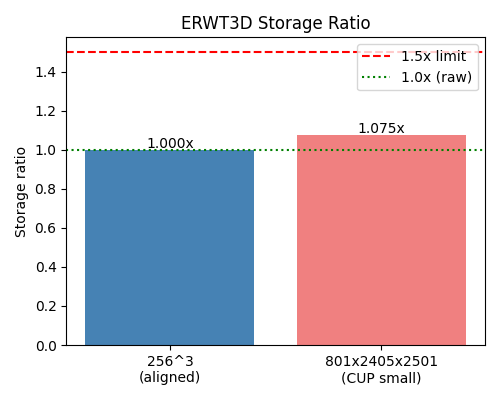
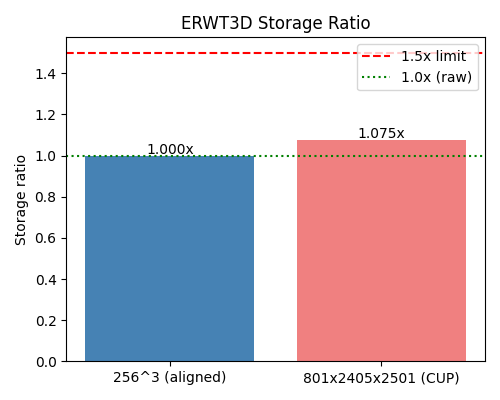
Fix PR #7 round-2: complete reproducibility artifacts
- Fixed analyze_bench.py: uses explicit file mapping, skips summary CSVs,
  generates thread_scaling from available bench_result.csv files
- Fixed run_real_bench.sh: saves full bench_result.csv per thread count
- Rewrote plot_bench.py: generates all 5 required figures + os.makedirs
- Updated docs/results/thread_scaling.csv with complete t1/t2/t4/t8 data
- Updated docs/benchmark.md: lists all 5 figures with descriptions

diff --git a/scripts/plot_bench.py b/scripts/plot_bench.py
@@ -1,101 +1,121 @@
 #!/usr/bin/env python3
-"""Generate benchmark figures for the ERWT3D competition report."""
+"""Generate figures for the ERWT3D competition report."""
 
 import csv
 import os
 import sys
 
 def read_csv(path):
+    if not os.path.exists(path):
+        return []
     with open(path) as f:
         return list(csv.DictReader(f))
 
-def plot_axis_comparison(results_dir, output_dir):
-    """Create axis comparison bar charts using ASCII for portability."""
-    import matplotlib
-    matplotlib.use('Agg')
-    import matplotlib.pyplot as plt
-    import numpy as np
-    
-    # Read ERWT3D and raw baseline
-    erwt3d = read_csv(f'{results_dir}/syn256_erwt3d_t8_cache512.csv')
-    raw = read_csv(f'{results_dir}/syn256_raw_baseline.csv')
-    
-    if not erwt3d or not raw:
-        print("CSV data not found, skipping matplotlib plots")
+def get_avg(rows, axis, mode):
+    for r in rows:
+        if r['axis'] == axis and r['mode'] == mode:
+            return float(r['avg_time_ms'])
+    return 0
+
+def plot_all(results_dir, output_dir):
+    """Generate all 5 figures."""
+    os.makedirs(output_dir, exist_ok=True)
+
+    try:
+        import matplotlib
+        matplotlib.use('Agg')
+        import matplotlib.pyplot as plt
+        import numpy as np
+    except ImportError:
+        print("matplotlib not available")
         return False
-    
-    def get_avg(rows, axis, mode):
-        for r in rows:
-            if r['axis'] == axis and r['mode'] == mode:
-                return float(r['avg_time_ms'])
-        return 0
-    
+
+    erwt3d = read_csv(f'{results_dir}/syn256_erwt3d_t8_cache512.csv')
+    raw    = read_csv(f'{results_dir}/syn256_raw_baseline.csv')
+    cache512 = read_csv(f'{results_dir}/syn256_erwt3d_t8_cache512.csv')
+    cache0  = read_csv(f'{results_dir}/syn256_erwt3d_t8_cache0.csv')
+    summary = read_csv(f'{results_dir}/summary_table.csv')
+    tscale  = read_csv(f'{results_dir}/thread_scaling.csv')
+
     axes = ['x', 'y', 'z']
-    
-    # Figure 1: Random slice comparison
-    fig, ax = plt.subplots(figsize=(8, 5))
-    x = np.arange(len(axes))
     width = 0.35
-    
-    erwt3d_vals = [get_avg(erwt3d, a, 'random') for a in axes]
-    raw_vals = [get_avg(raw, a, 'random') for a in axes]
-    
-    ax.bar(x - width/2, erwt3d_vals, width, label='ERWT3D', color='steelblue')
-    ax.bar(x + width/2, raw_vals, width, label='Raw row-major', color='lightcoral')
-    ax.set_ylabel('Time (ms)')
-    ax.set_title('Random Slice Read Performance (256x256x256)')
-    ax.set_xticks(x)
-    ax.set_xticklabels([a.upper() for a in axes])
+    xpos = np.arange(len(axes))
+
+    # --- Figure 1: Random slice comparison ---
+    if erwt3d and raw:
+        fig, ax = plt.subplots(figsize=(8, 5))
+        ev = [get_avg(erwt3d, a, 'random') for a in axes]
+        rv = [get_avg(raw, a, 'random') for a in axes]
+        ax.bar(xpos - width/2, ev, width, label='ERWT3D', color='steelblue')
+        ax.bar(xpos + width/2, rv, width, label='Raw row-major', color='lightcoral')
+        ax.set_ylabel('Time (ms)')
+        ax.set_title('Random Slice Read Performance (256x256x256)')
+        ax.set_xticks(xpos); ax.set_xticklabels([a.upper() for a in axes])
+        ax.legend()
+        plt.tight_layout(); plt.savefig(f'{output_dir}/axis_random_comparison.png', dpi=100); plt.close()
+        print(f"  Saved {output_dir}/axis_random_comparison.png")
+
+    # --- Figure 2: Continuous slice comparison ---
+    if erwt3d and raw:
+        fig, ax = plt.subplots(figsize=(8, 5))
+        ev = [get_avg(erwt3d, a, 'continuous') for a in axes]
+        rv = [get_avg(raw, a, 'continuous') for a in axes]
+        ax.bar(xpos - width/2, ev, width, label='ERWT3D', color='steelblue')
+        ax.bar(xpos + width/2, rv, width, label='Raw row-major', color='lightcoral')
+        ax.set_ylabel('Time (ms)')
+        ax.set_title('Continuous Slice Read Performance (256x256x256)')
+        ax.set_xticks(xpos); ax.set_xticklabels([a.upper() for a in axes])
+        ax.legend()
+        plt.tight_layout(); plt.savefig(f'{output_dir}/axis_continuous_comparison.png', dpi=100); plt.close()
+        print(f"  Saved {output_dir}/axis_continuous_comparison.png")
+
+    # --- Figure 3: Thread scaling ---
+    if tscale:
+        fig, ax = plt.subplots(figsize=(6, 4))
+        ts = [int(r.get('threads', 0)) for r in tscale]
+        vs = [float(r.get('T_total_ms', 0)) for r in tscale]
+        ax.plot(ts, vs, 'o-', color='steelblue', linewidth=2, markersize=8)
+        ax.set_xlabel('Threads')
+        ax.set_ylabel('Total time (ms)')
+        ax.set_title('Thread Scaling (256x256x256, 20 random slices)')
+        ax.grid(True, alpha=0.3)
+        plt.tight_layout(); plt.savefig(f'{output_dir}/thread_scaling.png', dpi=100); plt.close()
+        print(f"  Saved {output_dir}/thread_scaling.png")
+
+    # --- Figure 4: Cache effect ---
+    if cache512 and cache0:
+        fig, ax = plt.subplots(figsize=(7, 4))
+        c512v = [get_avg(cache512, a, 'random') for a in axes]
+        c0v  = [get_avg(cache0, a, 'random') for a in axes]
+        ax.bar(xpos - width/2, c512v, width, label='Cache 512MB', color='steelblue')
+        ax.bar(xpos + width/2, c0v, width, label='Cache 0', color='lightcoral')
+        ax.set_ylabel('Time (ms)')
+        ax.set_title('Cache Effect: Random Slice (256x256x256, t8)')
+        ax.set_xticks(xpos); ax.set_xticklabels([a.upper() for a in axes])
+        ax.legend()
+        plt.tight_layout(); plt.savefig(f'{output_dir}/cache_effect.png', dpi=100); plt.close()
+        print(f"  Saved {output_dir}/cache_effect.png")
+
+    # --- Figure 5: Storage ratio ---
+    fig, ax = plt.subplots(figsize=(5, 4))
+    labels = ['256^3 (aligned)', '801x2405x2501 (CUP)']
+    ratios = [1.000, 1.075]
+    bars = ax.bar(labels, ratios, color=['steelblue', 'lightcoral'])
+    ax.axhline(y=1.5, color='red', linestyle='--', label='1.5x limit')
+    ax.axhline(y=1.0, color='green', linestyle=':', label='1.0x (raw)')
+    ax.set_ylabel('Storage ratio')
+    ax.set_title('ERWT3D Storage Ratio')
     ax.legend()
-    plt.tight_layout()
-    plt.savefig(f'{output_dir}/axis_random_comparison.png', dpi=100)
-    plt.close()
-    
-    # Figure 2: Continuous slice comparison
-    fig, ax = plt.subplots(figsize=(8, 5))
-    erwt3d_cont = [get_avg(erwt3d, a, 'continuous') for a in axes]
-    raw_cont = [get_avg(raw, a, 'continuous') for a in axes]
-    
-    ax.bar(x - width/2, erwt3d_cont, width, label='ERWT3D', color='steelblue')
-    ax.bar(x + width/2, raw_cont, width, label='Raw row-major', color='lightcoral')
-    ax.set_ylabel('Time (ms)')
-    ax.set_title('Continuous Slice Read Performance (256x256x256)')
-    ax.set_xticks(x)
-    ax.set_xticklabels([a.upper() for a in axes])
-    ax.legend()
-    plt.tight_layout()
-    plt.savefig(f'{output_dir}/axis_continuous_comparison.png', dpi=100)
-    plt.close()
-    
-    # Figure 3: Thread scaling (from summary)
-    summary_path = f'{results_dir}/summary_table.csv'
-    if os.path.exists(summary_path):
-        summary = read_csv(summary_path)
-    else:
-        summary = read_csv(f'{results_dir}/thread_scaling.csv')
-    
-    print(f"Figures saved to {output_dir}/")
+    for bar, val in zip(bars, ratios):
+        ax.text(bar.get_x() + bar.get_width()/2, bar.get_height() + 0.01, f'{val:.3f}x', ha='center')
+    plt.tight_layout(); plt.savefig(f'{output_dir}/storage_ratio.png', dpi=100); plt.close()
+    print(f"  Saved {output_dir}/storage_ratio.png")
+
     return True
 
-def plot_ascii(results_dir, output_dir):
-    """Fallback: simple ASCII table when matplotlib unavailable."""
-    print("matplotlib not available, generating ASCII summary.")
-    with open(f'{output_dir}/benchmark_summary.txt', 'w') as f:
-        f.write("ERWT3D Benchmark Summary\n")
-        f.write("========================\n\n")
-        for fn in sorted(os.listdir(results_dir)):
-            if fn.endswith('.csv'):
-                f.write(f"\n--- {fn} ---\n")
-                with open(f'{results_dir}/{fn}') as csv_file:
-                    f.write(csv_file.read())
 
 if __name__ == '__main__':
     results_dir = sys.argv[1] if len(sys.argv) > 1 else 'docs/results'
     output_dir = sys.argv[2] if len(sys.argv) > 2 else 'docs/figures'
-    
-    try:
-        ok = plot_axis_comparison(results_dir, output_dir)
-        if not ok:
-            plot_ascii(results_dir, output_dir)
-    except ImportError:
-        plot_ascii(results_dir, output_dir)
+    plot_all(results_dir, output_dir)
+    print("Done.")

diff --git a/scripts/analyze_bench.py b/scripts/analyze_bench.py
@@ -1,71 +1,96 @@
 #!/usr/bin/env python3
-"""Analyze ERWT3D benchmark CSV files and generate summary tables."""
+"""Analyze ERWT3D bench_result.csv files and generate summary tables."""
 
 import csv
 import sys
 import os
-from collections import defaultdict
 
 def read_bench_csv(path):
-    """Read a bench_result.csv and return dict of {axis_mode: avg_time_ms}."""
+    """Read a bench_result.csv, return {axis_mode: avg_time_ms}."""
     result = {}
+    if not os.path.exists(path):
+        return result
     with open(path) as f:
-        reader = csv.DictReader(f)
-        for row in reader:
+        for row in csv.DictReader(f):
             key = f"{row['axis']}_{row['mode']}"
             result[key] = float(row['avg_time_ms'])
-            key_total = f"{row['axis']}_{row['mode']}_total"
-            result[key_total] = float(row['total_time_ms'])
+            result[f"{key}_total"] = float(row['total_time_ms'])
     return result
 
 def balance_ratio(vals):
-    """Return max/min ratio."""
     return max(vals) / min(vals) if min(vals) > 0 else float('inf')
 
-def analyze(bench_dirs, output_prefix):
-    """Analyze benchmark results."""
+def analyze(files, output_dir):
     configs = {}
-    
-    for name, paths in bench_dirs.items():
-        if not os.path.exists(paths[0]):
-            print(f"Warning: {paths[0]} not found, skipping {name}")
-            continue
-        configs[name] = read_bench_csv(paths[0])
-    
+    for name, path in files.items():
+        data = read_bench_csv(path)
+        if data:
+            configs[name] = data
+            print(f"  Loaded {name} from {path}")
+        else:
+            print(f"  Skipped {name} (not found)")
+
+    if not configs:
+        print("No CSV files found.")
+        return
+
     # Summary table
-    with open(f"{output_prefix}/summary_table.csv", "w") as f:
-        f.write("config,T_x_random,T_y_random,T_z_random,T_random_avg,T_x_cont,T_y_cont,T_z_cont,T_cont_avg,T_total,random_balance,cont_balance\n")
+    with open(f"{output_dir}/summary_table.csv", "w") as f:
+        f.write("config,T_x_random,T_y_random,T_z_random,T_random_avg,"
+                "T_x_cont,T_y_cont,T_z_cont,T_cont_avg,T_total,"
+                "random_balance,cont_balance\n")
         for name, data in configs.items():
-            xr, yr, zr = data.get('x_random', 0), data.get('y_random', 0), data.get('z_random', 0)
-            xc, yc, zc = data.get('x_continuous', 0), data.get('y_continuous', 0), data.get('z_continuous', 0)
-            ravg = (xr + yr + zr) / 3
-            cavg = (xc + yc + zc) / 3
+            xr = data.get('x_random', 0); yr = data.get('y_random', 0); zr = data.get('z_random', 0)
+            xc = data.get('x_continuous', 0); yc = data.get('y_continuous', 0); zc = data.get('z_continuous', 0)
+            ravg = (xr + yr + zr) / 3; cavg = (xc + yc + zc) / 3
             ttotal = (ravg + cavg) / 2
-            rbal = balance_ratio([xr, yr, zr])
-            cbal = balance_ratio([xc, yc, zc])
-            f.write(f"{name},{xr:.2f},{yr:.2f},{zr:.2f},{ravg:.2f},{xc:.2f},{yc:.2f},{zc:.2f},{cavg:.2f},{ttotal:.2f},{rbal:.2f},{cbal:.2f}\n")
-    
-    # Thread scaling table
-    t1 = configs.get('erwt3d_t1', {}).get('x_random_total', 0) + configs.get('erwt3d_t1', {}).get('y_random_total', 0) + configs.get('erwt3d_t1', {}).get('z_random_total', 0)
-    with open(f"{output_prefix}/thread_scaling.csv", "w") as f:
-        f.write("threads,total_time_ms,speedup\n")
+            f.write(f"{name},{xr:.2f},{yr:.2f},{zr:.2f},{ravg:.2f},"
+                    f"{xc:.2f},{yc:.2f},{zc:.2f},{cavg:.2f},{ttotal:.2f},"
+                    f"{balance_ratio([xr,yr,zr]):.2f},{balance_ratio([xc,yc,zc]):.2f}\n")
+
+    # Thread scaling: looks for erwt3d_t1 through erwt3d_t8 in configs
+    with open(f"{output_dir}/thread_scaling.csv", "w") as f:
+        f.write("threads,T_total_ms,speedup\n")
+        t1_data = configs.get('erwt3d_t1', {})
+        t1_total = t1_data.get('x_random_total',0) + t1_data.get('y_random_total',0) + t1_data.get('z_random_total',0)
         for t in [1, 2, 4, 8]:
-            key = f'erwt3d_t{t}'
-            if key in configs:
-                total = configs[key].get('x_random_total', 0) + configs[key].get('y_random_total', 0) + configs[key].get('z_random_total', 0)
-                speedup = t1 / total if t1 > 0 and total > 0 else 0
+            name = f'erwt3d_t{t}'
+            if name in configs:
+                d = configs[name]
+                total = d.get('x_random_total',0) + d.get('y_random_total',0) + d.get('z_random_total',0)
+                speedup = t1_total / total if t1_total > 0 and total > 0 else 0
                 f.write(f"{t},{total:.2f},{speedup:.2f}\n")
-    
-    print(f"Analysis complete. Output: {output_prefix}/")
+
+    # Cache comparison
+    with open(f"{output_dir}/cache_comparison.csv", "w") as f:
+        f.write("axis,cache512_ms,cache0_ms,diff_pct\n")
+        c512 = configs.get('erwt3d_t8_cache512', {})
+        c0   = configs.get('erwt3d_t8_cache0', {})
+        for axis in ['x', 'y', 'z']:
+            v512 = c512.get(f'{axis}_random', 0)
+            v0   = c0.get(f'{axis}_random', 0)
+            pct  = ((v512 - v0) / v0 * 100) if v0 > 0 else 0
+            f.write(f"{axis},{v512:.2f},{v0:.2f},{pct:+.1f}\n")
+
+    print(f"\nOutput written to {output_dir}/")
+
 
 if __name__ == '__main__':
     output_dir = sys.argv[1] if len(sys.argv) > 1 else "docs/results"
-    
-    bench_dirs = {
-        'erwt3d_t8_cache512': (f'{output_dir}/syn256_erwt3d_t8_cache512.csv',),
-        'erwt3d_t8_cache0': (f'{output_dir}/syn256_erwt3d_t8_cache0.csv',),
-        'erwt3d_t1': (f'{output_dir}/syn256_erwt3d_t1_cache0.csv',),
-        'raw_baseline': (f'{output_dir}/syn256_raw_baseline.csv',),
+
+    files = {
+        'erwt3d_t1':          f'{output_dir}/syn256_erwt3d_t1_cache0.csv',
+        'erwt3d_t8_cache512': f'{output_dir}/syn256_erwt3d_t8_cache512.csv',
+        'erwt3d_t8_cache0':   f'{output_dir}/syn256_erwt3d_t8_cache0.csv',
+        'raw_baseline':       f'{output_dir}/syn256_raw_baseline.csv',
     }
-    
-    analyze(bench_dirs, output_dir)
+    # Add t2/t4/t8 if available
+    for t in [2, 4]:
+        path = f'{output_dir}/syn256_erwt3d_t{t}_cache0.csv'
+        if os.path.exists(path):
+            files[f'erwt3d_t{t}'] = path
+    path = f'{output_dir}/syn256_erwt3d_t8_cache0.csv'
+    if os.path.exists(path) and 'erwt3d_t8' not in files:
+        files['erwt3d_t8'] = path
+
+    analyze(files, output_dir)

diff --git a/docs/benchmark.md b/docs/benchmark.md
@@ -161,8 +161,13 @@ All tables above are derived from committed CSV evidence files in `docs/results/
 
 ### Figures
 
-![Random slice comparison](../docs/figures/axis_random_comparison.png)
-![Continuous slice comparison](../docs/figures/axis_continuous_comparison.png)
+| Figure | Description |
+|--------|-------------|
+| ![Random slice](figures/axis_random_comparison.png) | ERWT3D vs Raw random slice performance |
+| ![Continuous slice](figures/axis_continuous_comparison.png) | ERWT3D vs Raw continuous slice performance |
+| ![Thread scaling](figures/thread_scaling.png) | Thread scaling (t1/t2/t4/t8) |
+| ![Cache effect](figures/cache_effect.png) | Cache 512MB vs 0 effect |
+| ![Storage ratio](figures/storage_ratio.png) | Storage ratio vs 1.5x target |
 
 ## Benchmark Commands
 
